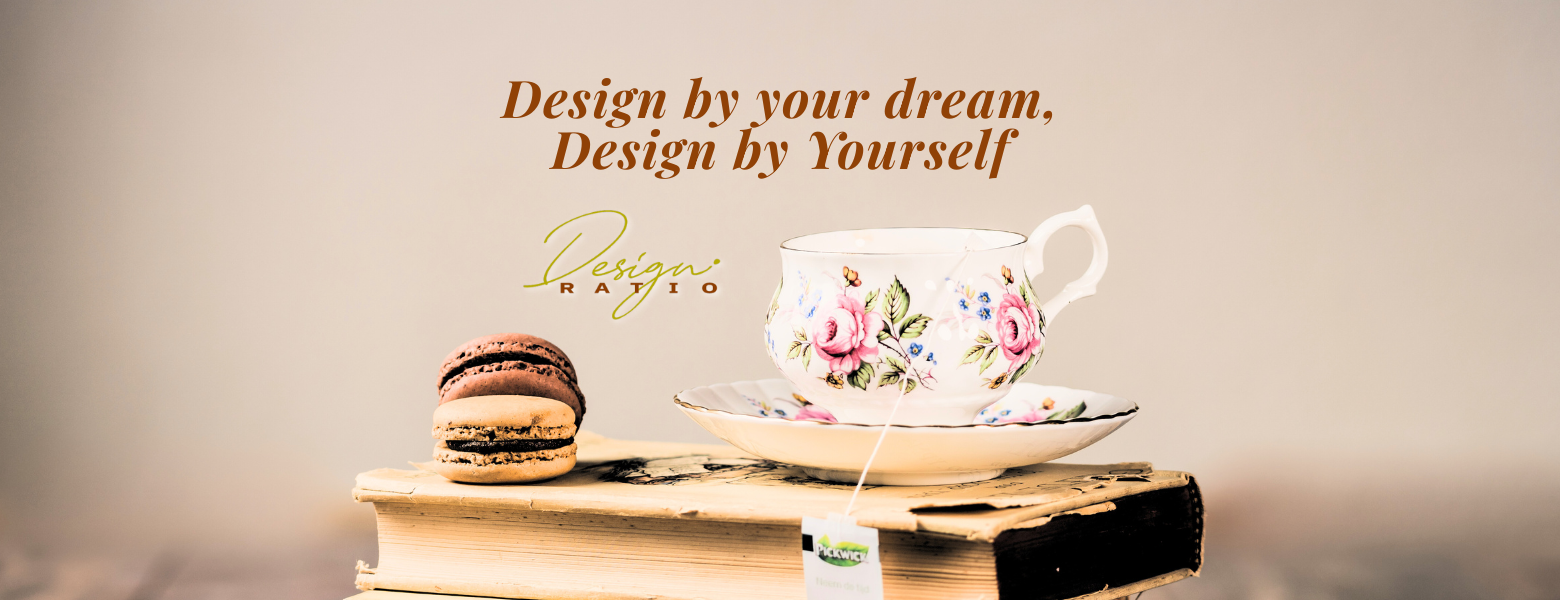
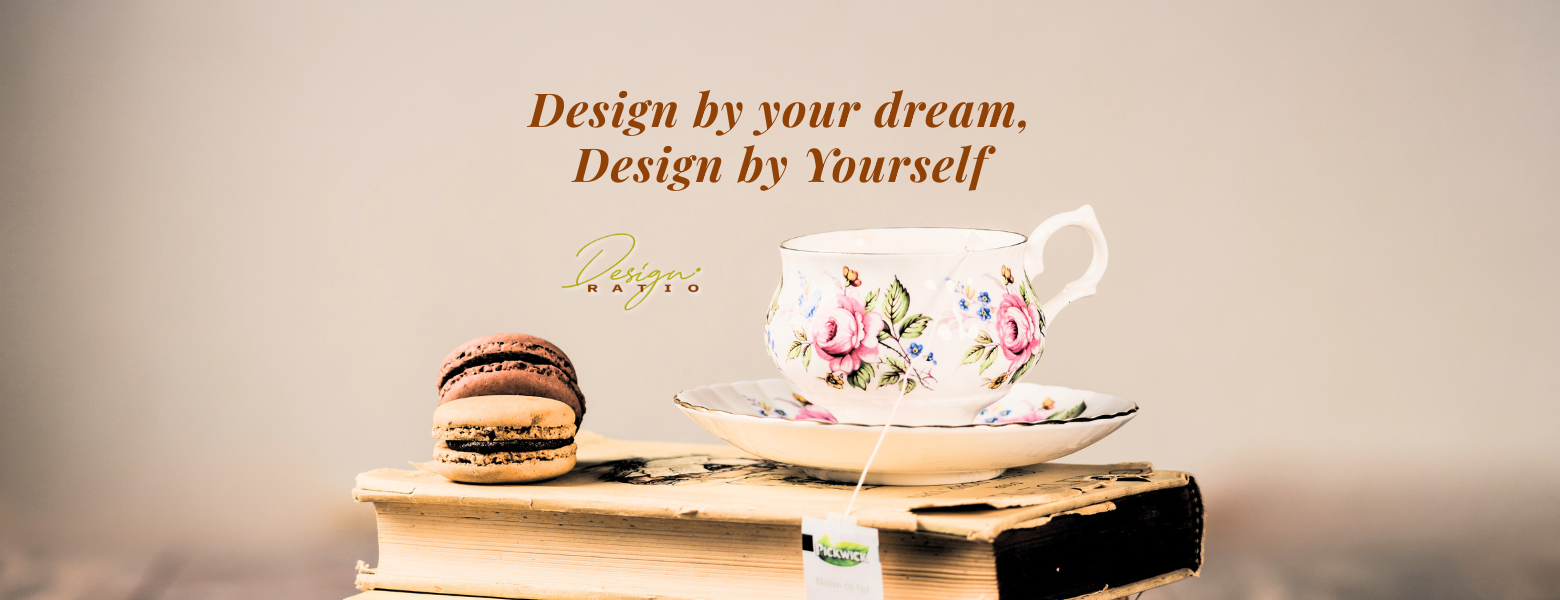
fix ui of frontend: contact page left

Changed region(s): [[0.3077, 0.12, 0.6769, 0.33], [0.3385, 0.39, 0.4615, 0.51], [0.3692, 0.33, 0.4, 0.36]]

diff --git a/src/components/ui/card/cardScreen.jsx b/src/components/ui/card/cardScreen.jsx
@@ -9,9 +9,9 @@ function CardItem({ product }) {
   const [selectedSize, setSelectedSize] = useState(null)
 
   return (
-    <div className=" w-66 h-auto mb-15 p-3 flex flex-col items-center">
+    <div className="w-66 h-auto my-4 p-3 flex flex-col items-center gap-y-4">
 
-      <div className="">
+      <div>
         <img
           src={product.img}
           alt={product.name}
@@ -19,7 +19,7 @@ function CardItem({ product }) {
         />
       </div>
 
-      <h3 className="h3-style pt-5 pb-4 text-[#411D03] truncate w-full text-center ">
+      <h3 className="lg:text-2xl pt-5 pb-4 text-(--color-brown) truncate w-full text-center ">
         {product.name}
       </h3>
 
@@ -28,31 +28,31 @@ function CardItem({ product }) {
         selectedSize={selectedSize}
         onSelect={setSelectedSize} />
 
-        <p>
+        <p className="lg:text-xl">
         Selected: {selectedSize || "—"}
         </p>
-        <p className="mb-3">
+        <p className="mb-3 lg:text-xl">
         Price: {selectedSize
         ? product.sizes[selectedSize].price
         : "—"} baht
         </p>
 
-      <div className="flex flex-row items-center gap-5 h3-style text-[#411D03] pb-5 ">
+      <div className="flex flex-row items-center gap-5 h3-style text-(--color-brown) pb-5 ">
         <button
-          className="flex items-center justify-center border border-[#411D03] rounded-full w-8 h-8 active:bg-[#411D03] active:text-white"
+          className="flex items-center justify-center border border-(--color-brown) rounded-full w-8 h-8 active:bg-(--color-brown) active:text-white"
           onClick={decrement}
         >
           <p>-</p>
         </button>
         <p>{count}</p>
         <button
-          className="flex items-center justify-center border border-[#411D03] rounded-full w-8 h-8 active:bg-[#411D03] active:text-white"
+          className="flex items-center justify-center border border-(--color-brown) rounded-full w-8 h-8 active:bg-(--color-brown) active:text-white"
           onClick={increment}
         >
           <p>+</p>
         </button>
       </div>
-      <Button variant="default" className=" bg-[#411D03] text-[#f3ece3] text-sm  ">
+      <Button className="px-6 py-2 rounded-4xl lg:text-base lg:py-5 lg:px-8 lg:rounded-[30px] hover:bg-(--color-matcha)">
         Add to Cart
       </Button>
     </div>
@@ -61,7 +61,7 @@ function CardItem({ product }) {
 
 export default function CardScreen() {
   return (
-    <div className="flex flex-wrap justify-center items-center w-full gap-7">
+    <div className="flex flex-wrap justify-center items-center w-full gap-4">
       {teaProducts.map((item) => (
         <CardItem key={item.id || item.name} product={item} />
       ))}

diff --git a/src/page/userPage/home/session/CustomBlend.jsx b/src/page/userPage/home/session/CustomBlend.jsx
@@ -4,24 +4,17 @@ import { Link } from "react-router-dom"
 
 export default function CustomBlend() {
     return(
-        <div className="w-full bg-[#693714] flex flex-col items-center">
-            <h1 className="text-white font-display text-6xl font-semibold mt-12 mb-6">Custom Blend</h1>
-            <p className="text-white font-body w-[75%] mb-8" >Lorem ipsum dolor sit amet consectetur adipisicing elit. Molestias
-                    quo fugit nobis rerum laborum beatae incidunt cupiditate facilis.
-                    Distinctio doloremque nostrum est, blanditiis commodi esse quam
-                    voluptatibus. Ullam, molestiae ratione quisquam officia aliquam
-                    rerum accusantium exercitationem eum iste voluptates quo iusto dolor
-                    necessitatibus? Earum laboriosam quis quaerat esse, voluptas
-                    dignissimos.</p>
+        <div className="w-full bg-(--color-brown) flex flex-col items-center">
+            <h1 className="text-white lg:text-6xl mt-12 mb-10">Custom Blend</h1>
+            <p className="text-white w-[75%] mb-8 lg:text-xl" >
+                Tea blending is the art of combining different types of teas—or even herbs, flowers, and spices—to craft a unique, balanced flavor profile. Rather than being a “cheap shortcut” blending allows tea makers to highlight strengths of one leaf while smoothing over the weaknesses of another. And the best part? Crafting your own blend lets you shape a tea that's truly personal—your mood, your story, your flavor. It's a chance to sip something no one else in the world has but you.</p>
             <div className="relative w-full">
-            <img src={bgBlend} alt="bg blend" className="w-full "/>
-                <Link to="/blending" className="absolute top-[7%] left-1/2 -translate-x-1/2">
-                <Button variant="secondary"  >
-                    Blend Now
-                </Button>
-                 </Link>
-            
-
+            <img src={bgBlend} alt="bg blend" className="lg:w-full h-auto"/>
+            <Link to="/blending" className="absolute top-[7%] left-1/2 -translate-x-1/2">
+            <Button className="bg-(--color-matcha) hover:bg-(--color-cream) hover:text-(--color-brown) px-10 py-2 rounded-4xl lg:text-xl lg:py-6 lg:px-15 lg:rounded-[30px]"  >
+                Blend Now
+            </Button>
+            </Link>
             </div>
         </div>
     )

diff --git a/src/components/ui/Footer.jsx b/src/components/ui/Footer.jsx
@@ -3,9 +3,9 @@ import Logo from "@/assets/img/Design-Ratio-logo.png";
 
 const Footer = () => {
   return (
-    <footer className="bg-[#f6efe6] py-8">
-      <div className="max-w-7xl mx-auto px-4 md:px-5 flex flex-col md:flex-row items-center justify-between gap-9">
-        <div className="flex flex-row items-center flex-shrink-0">
+    <footer className="bg-(--color-cream) py-8">
+      <div className="max-w-7xl mx-auto px-4 lg:px-5 flex flex-col lg:flex-row items-center justify-between gap-9">
+        <div className="flex flex-row items-center shrink-0">
           <Link to="/">
             <img
               src={Logo}
@@ -15,7 +15,7 @@ const Footer = () => {
           </Link>
         </div>
         <div>
-          <nav className="flex flex-col px-4 sm:px-6 md:flex-row items-center gap-x-24 lg:gap-y-16 text-amber-950">
+          <nav className="flex flex-col lg:px-4 px-6 lg:flex-row items-center lg:gap-x-20 gap-y-3 text-(--color-brown) mb-6 lg:mb-0">
             <Link to="/" className="hover:text-(--color-matcha) transition">
               Home
             </Link>
@@ -43,10 +43,10 @@ const Footer = () => {
           </nav>
         </div>
 
-        <div className="flex flex-col px-1 h-auto sm:px-3 sm:text-xl items-center justify-center md:items-end text-center md:text-right">
-          <h3 className="rounded-full flex items-center justify-center md:justify-end text-amber-950">
+        <div className="flex flex-col lg:px-1 h-auto px-3 lg:text-xl justify-center items-center lg:items-end lg:text-center text-right gap-y-1">
+          <p className="rounded-full flex items-center lg:justify-center justify-end text-(--color-brown) font-bold font-display">
             Contact Us
-          </h3>
+          </p>
           <p className="flex">Address: 123 456 789</p>
           <p className="flex">Call: (+66) 123456789</p>
         </div>

diff --git a/src/components/ui/NavBar.jsx b/src/components/ui/NavBar.jsx
@@ -34,16 +34,15 @@ const Navbar = () => {
             type="button"
             aria-label="Toggle menu"
             onClick={() => setOpen((v) => !v)}
-            className="rounded-md p-2 text-matcha transition hover:text-brown focus-visible:outline focus-visible:outline-2 focus-visible:outline-offset-2 focus-visible:outline-matcha"
+            className="rounded-md p-2 text-matcha transition hover:text-brown focus-visible:outline focus-visible:outline-offset-2 focus-visible:outline-matcha"
           >
             {open ? <X className="size-5" /> : <Menu className="size-5" />}
           </button>
         </div>
 
-        <nav className="hidden flex-1 items-center justify-center gap-8 text-[15px] font-semibold text-matcha sm:flex">
+        <nav className="hidden flex-1 items-center justify-center gap-8 text-[16px] lg:text-xl font-semibold text-matcha sm:flex">
           <Link to="/" className="nav-link flex items-center gap-2 transition">
             <Home className="size-4" />
-            Home
           </Link>
 
           {navLinks.map((item) => (
@@ -98,7 +97,6 @@ const Navbar = () => {
                 className="nav-link flex items-center justify-center gap-2 px-4 py-3 transition hover:bg-cream"
                 onClick={() => setOpen(false)}
               >
-                <Home className="size-4" />
                 Home
               </Link>
 
@@ -112,10 +110,6 @@ const Navbar = () => {
                   {item.label}
                 </Link>
               ))}
-
-              <div className="border-t border-border px-4 py-2 text-sm font-semibold text-orange-600">
-                Admin Pages
-              </div>
 
               {adminLinks.map((item) => (
                 <Link

diff --git a/src/page/userPage/home/session/AboutUs.jsx b/src/page/userPage/home/session/AboutUs.jsx
@@ -9,7 +9,7 @@ export default function AboutUs (){
                 <img src="about us pic.png" alt="about us" className="mb-10 rounded-tl-[35%] rounded-br-[35%] shadow-lg flex justify-center items-center w-[70%]" />
               </div>
               <div className="w-full h-auto flex flex-col justify-center items-center lg:w-3/5 lg:gap-y-5">
-                <p className="text-left lg:text-xl">Lorem ipsum dolor sit amet consectetur adipisicing elit. Cum, cumque quis delectus iste molestiae laboriosam pariatur natus doloribus eveniet eum a earum architecto sunt error labore ducimus, iure praesentium. Eum, cum. Natus, corporis! Fugiat quibusdam quia tenetur dicta accusamus veritatis perspiciatis voluptates quaerat dolores. Libero in adipisci dolores totam suscipit.</p>
+                <p className="text-left lg:text-xl">We curate thoughtfully crafted teas made from high-quality leaves, herbs, spices, and fruits sourced from trusted origins. Each blend is designed to deliver balance, depth, and a memorable sensory experience in every cup. Whether you’re seeking comfort, clarity, or a moment of calm, our teas invite you to slow down and savor something truly special.</p>
                 <Button className="px-10 py-2 mt-10 hover:bg-(--color-matcha) rounded-4xl lg:text-xl lg:py-6 lg:px-15 lg:rounded-[30px]">Find More</Button>
               </div>
             </div>

diff --git a/src/page/userPage/home/session/OurProducts.jsx b/src/page/userPage/home/session/OurProducts.jsx
@@ -8,18 +8,17 @@ export default function OurProduct() {
     const products = useProducts()
     const productSection = products.slice(0, 6)
     //console.log(productSection)
-    
+
     return (
-        <div className=" w-full px-[15%] flex-col items-center">
-            <h1 className="h1-style py-12 text-[#9e9957] text-center">Our Products</h1>
-            <div className="w-full  mb-11 flex">
-                <CardScreen  product={productSection}/>
-                
+        <div className=" w-full flex-col items-center px-10 py-10 lg:px-37.5">
+            <h1 className="lg:text-6xl lg:mb-5 mt-10 py-5 text-(--color-matcha) text-center">Our Products</h1>
+            <div className="w-full lg:mb-11 lg:ml-10 ml-6">
+                <CardScreen  product={productSection} className="lg:flex flex-col justify-center" />
             </div>
             <Link
                 to="/products"
-                className="hover:text-[(--matcha-color)] transition-colors flex justify-center mb-16">
-                <Button variant="default"  >
+                className="hover:text-(--color-matcha) transition-colors flex justify-center mb-20 mt-10">
+                <Button className="px-10 py-2 rounded-4xl lg:text-xl lg:py-6 lg:px-15 lg:rounded-[30px] hover:bg-(--color-matcha)">
                     See more
                 </Button>
             </Link>

diff --git a/src/components/ui/card/sizeChoose/sizeScreen.jsx b/src/components/ui/card/sizeChoose/sizeScreen.jsx
@@ -4,7 +4,7 @@ export default function SizeChoose({
     selectedSize,
     onSelect}){
     return (
-        <div className="w-full flex justify-around pb-6 items-center">
+        <div className="w-full flex justify-around items-center">
             {Object.entries(sizes).map(([size, data],) =>{
                 const isActive = selectedSize ===size;
 
@@ -14,8 +14,8 @@ export default function SizeChoose({
             onClick={() => onSelect(selectedSize === size ? null : size)}
             className={`flex flex-col items-center px-4 py-2 rounded-lg border
             ${isActive
-            ?"border-[#411D03] bg-[#411D03] text-white"
-            :"border-gray-300 text-[#411D03]"}`}
+            ?"border-(--color-brown) bg-(--color-brown) text-white"
+            :"border-gray-300 text-(--color-brown)"}`}
             >
                 <p>Size {size}</p>
                 <p>{data.price} baht </p>

diff --git a/src/page/userPage/blending/BlendingIntro.jsx b/src/page/userPage/blending/BlendingIntro.jsx
@@ -1,8 +1,8 @@
 export default function BlendingIntro() {
   return (
-    <div className="blending-intro mb-8">
-      <h1 className="lg:text-6xl mb-6">Blending</h1>
-      <p className="text-base text-(--color-brown) leading-relaxed">
+    <div className="blending-intro">
+      <h1 className="lg:text-6xl mb-6 lg:pt-12 lg:pb-8 text-center">Blending</h1>
+      <p className="text-base text-(--color-brown) leading-relaxed lg:pb-6">
         Tea blending is the art of combining different teas, herbs, flowers, or spices to create a balanced and expressive
         flavor profile. It lets makers highlight the strengths of each ingredient while softening any harsh notes, resulting in
         a unique taste. Blending also encourages creativity, allowing you to design teas that match a mood, a season,

diff --git a/src/page/userPage/Product-page/ProductPage.jsx b/src/page/userPage/Product-page/ProductPage.jsx
@@ -5,17 +5,13 @@ import CardScreen from "@/components/ui/card/CardScreen";
 
 export default function OurProduct() {
     const products = useProducts()
-    
-    
-    
+
     return (
-        <div className=" w-full px-[15%] flex-col items-center">
-            <h1 className="h1-style py-12  ">Products</h1>
-            <div className="w-full  mb-11 flex">
+        <div className=" w-full flex-col justify-center px-10 py-10 lg:px-37.5">
+            <h1 className="lg:py-12 mb-6 lg:text-6xl text-center">Product</h1>
+            <div className="w-full mb-11 flex justify-start">
                 <CardScreen  product={products}/>
-                
             </div>
-           
         </div>
     )
 }

diff --git a/src/components/HotTeaCarousel.jsx b/src/components/HotTeaCarousel.jsx
@@ -57,8 +57,7 @@ export default function HotTeaCarousel() {
               <div>
                 {/* ส่วนการแสดงผลการ์ดสินค้า */}
                 <div className="border-none shadow-lg overflow-hidden">
-
-                  <div className="relative flex flex-col items-center justify-center overflow-hidden h-150">
+                  <div className="relative flex flex-col items-center justify-center overflow-hidden lg:h-150 h-100">
                     <img
                         src={tea.image}
                         alt={tea.name}

diff --git a/src/page/userPage/blending/BlendingPage.jsx b/src/page/userPage/blending/BlendingPage.jsx
@@ -27,7 +27,7 @@ export default function BlendingPage() {
   };
 
     return (
-        <div className="flex flex-col justify-center items-center gap-y-7 px-5 py-10 mb-16 lg:px-37.5">
+        <div className="flex flex-col justify-center items-center gap-y-7 px-10 py-10 mb-10 lg:px-37.5">
             <BlendingIntro />
             <BlendingSteps />
             <h3 className="w-full text-left text-2xl font-bold mb-4 lg:text-2xl" style={{ color: 'var(--color-brown)', fontFamily: 'var(--font-body)' }}>Step 3: Choose Your Ingredients ({selectedItems.length}/{size})</h3>
